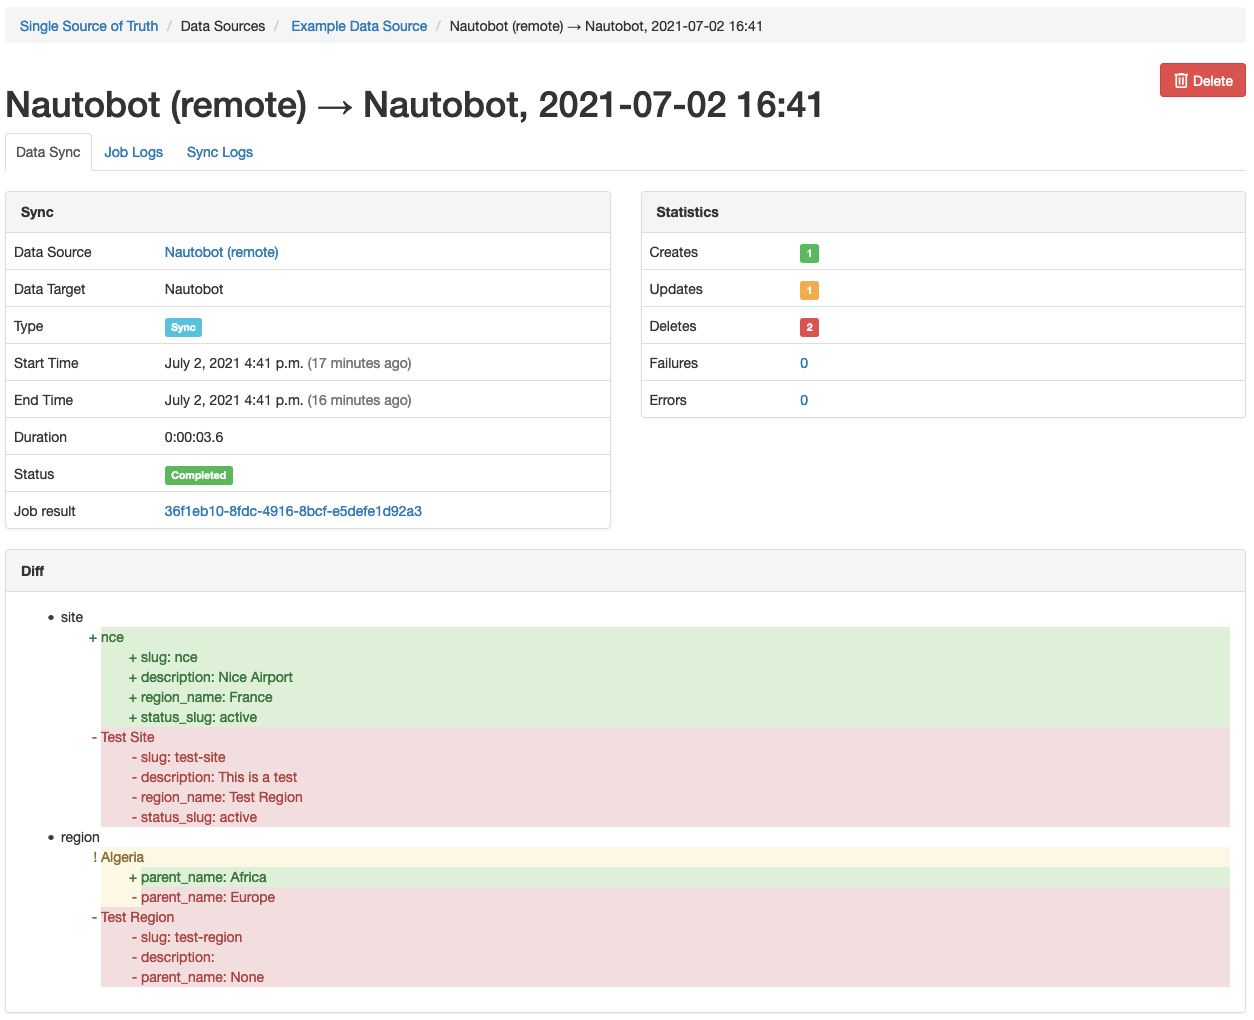
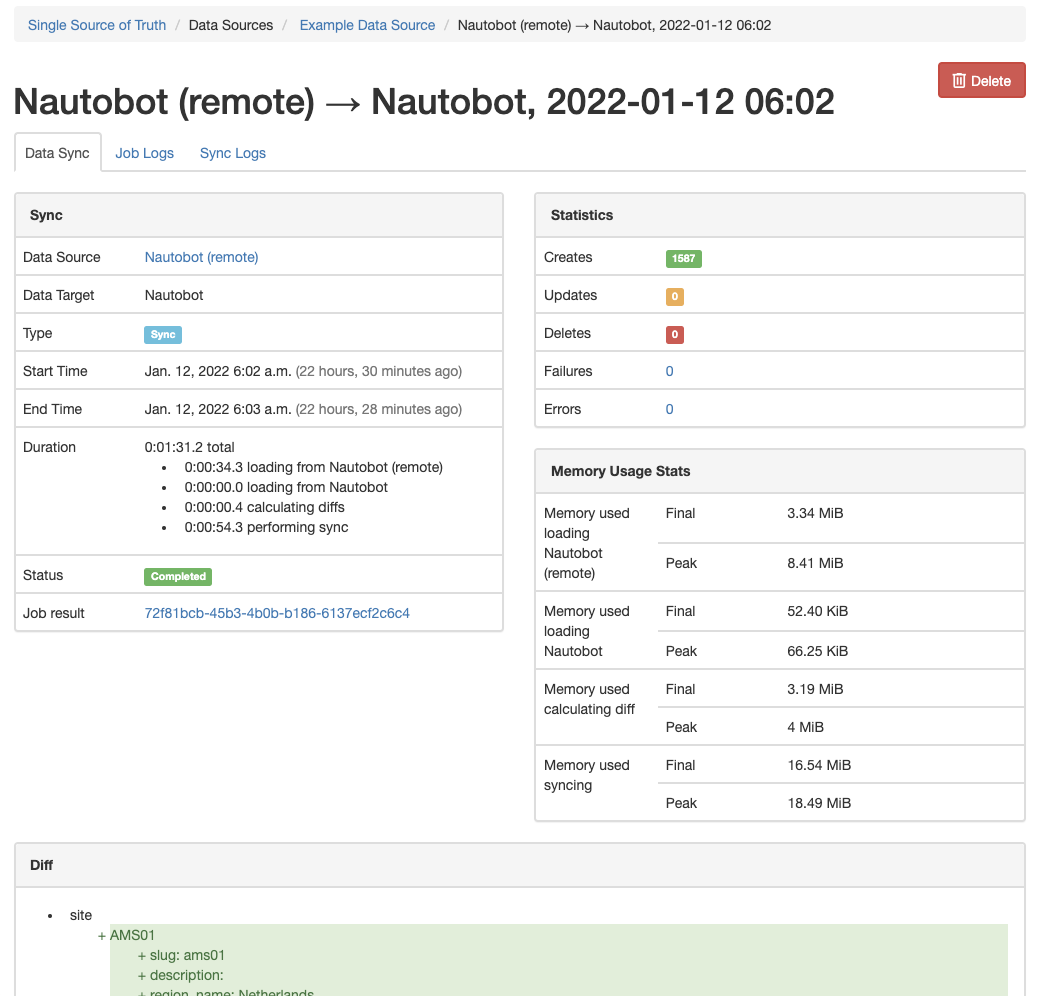
Add performance stats in detail view (#21)
* Add performance stats in detail view

* Move time performance to duration section

* Adjust memory usage stats

diff --git a/nautobot_ssot/templates/nautobot_ssot/sync_detail.html b/nautobot_ssot/templates/nautobot_ssot/sync_detail.html
@@ -3,6 +3,8 @@
 {% load plugins %}
 {% load shorter_timedelta %}
 {% load render_diff %}
+{% load humanize_bytes %}
+
 
 {% block content %}
     <style>
@@ -58,7 +60,15 @@
                     </tr>
                     <tr>
                         <td>Duration</td>
-                        <td>{{ object.duration | shorter_timedelta }}</td>
+                        <td>
+                            {{ object.duration | shorter_timedelta }} total
+                            <ul>
+                                <li>{{ object.source_load_time | shorter_timedelta }} loading from {{ object.source }}</li>
+                                <li>{{ object.target_load_time | shorter_timedelta }} loading from {{ object.target }}</li>
+                                <li>{{ object.diff_time | shorter_timedelta }} calculating diffs</li>
+                                <li>{{ object.sync_time | shorter_timedelta }} performing sync</li>
+                            </ul>
+                        </td>
                     </tr>
                     <tr>
                         <td>Status</td>
@@ -120,6 +130,53 @@
                     </tr>
                 </table>
             </div>
+            {% if object.source_load_memory_final %}
+            <div class="panel panel-default">
+                <div class="panel-heading">
+                    <strong>Memory Usage Stats</strong>
+                </div>
+                <table class="table table-hover panel-body attr-table">
+                    <tr>
+                        <td rowspan="2">Memory used loading {{ object.source }}</td>
+                        <td>Final</td>
+                        <td>{{ object.source_load_memory_final | humanize_bytes }}</td>
+                    </tr>
+                    <tr>
+                        <td>Peak</td>
+                        <td>{{ object.source_load_memory_peak | humanize_bytes }}</td>
+                    </tr>
+                    <tr>
+                        <td rowspan="2">Memory used loading {{ object.target }}</td>
+                        <td>Final</td>
+                        <td>{{ object.target_load_memory_final | humanize_bytes }}</td>
+                    </tr>
+                    <tr>
+                        <td>Peak</td>
+                        <td>{{ object.target_load_memory_peak | humanize_bytes }}</td>
+                    </tr>
+                    <tr>
+                        <td rowspan="2">Memory used calculating diff</td>
+                        <td>Final</td>
+                        <td>{{ object.diff_memory_final | humanize_bytes }}</td>
+                    </tr>
+                    <tr>
+                        <td>Peak</td>
+                        <td>{{ object.diff_memory_peak | humanize_bytes }}</td>
+                    </tr>
+                    {% if object.sync_memory_final %}
+                    <tr>
+                        <td rowspan="2">Memory used syncing</td>
+                        <td>Final</td>
+                        <td>{{ object.sync_memory_final | humanize_bytes }}</td>
+                    </tr>
+                    <tr>
+                        <td>Peak</td>
+                        <td>{{ object.sync_memory_peak | humanize_bytes }}</td>
+                    </tr>
+                    {% endif %}
+                </table>
+            </div>
+            {% endif %}
             {% include 'inc/custom_fields_panel.html' %}
             {% include 'inc/relationships_panel.html' %}
             {% plugin_right_page object %}

diff --git a/nautobot_ssot/jobs/base.py b/nautobot_ssot/jobs/base.py
@@ -110,6 +110,18 @@ class DataSyncBaseJob(BaseJob):  # pylint: disable=too-many-instance-attributes
         - self.sync       (Sync instance tracking this job execution)
         - self.job_result (as per Job API)
         """
+
+        def record_memory_trace(step: str):
+            """Helper function to record memory usage and reset tracemalloc stats."""
+            memory_final, memory_peak = tracemalloc.get_traced_memory()
+            setattr(self.sync, f"{step}_memory_final", memory_final)
+            setattr(self.sync, f"{step}_memory_peak", memory_peak)
+            self.sync.save()
+            self.log_info(
+                message=(f"Traced memory for {step} (Final, Peak): {memory_final} bytes, {memory_peak} bytes")
+            )
+            tracemalloc.clear_traces()
+
         if not self.sync:
             return
 
@@ -121,16 +133,20 @@ class DataSyncBaseJob(BaseJob):  # pylint: disable=too-many-instance-attributes
         self.log_info(message="Loading current data from source adapter...")
         self.load_source_adapter()
         load_source_adapter_time = datetime.now()
-        self.sync.load_time_source = load_source_adapter_time - start_time
+        self.sync.source_load_time = load_source_adapter_time - start_time
         self.sync.save()
-        self.log_info(message=f"Source Load Time from {self.source_adapter}: {self.sync.load_time_source}")
+        self.log_info(message=f"Source Load Time from {self.source_adapter}: {self.sync.source_load_time}")
+        if self.kwargs["memory_profiling"]:
+            record_memory_trace("source_load")
 
         self.log_info(message="Loading current data from target adapter...")
         self.load_target_adapter()
         load_target_adapter_time = datetime.now()
-        self.sync.load_time_target = load_target_adapter_time - load_source_adapter_time
+        self.sync.target_load_time = load_target_adapter_time - load_source_adapter_time
         self.sync.save()
-        self.log_info(message=f"Target Load Time from {self.target_adapter}: {self.sync.load_time_target}")
+        self.log_info(message=f"Target Load Time from {self.target_adapter}: {self.sync.target_load_time}")
+        if self.kwargs["memory_profiling"]:
+            record_memory_trace("target_load")
 
         self.log_info(message="Calculating diffs...")
         self.calculate_diff()
@@ -138,6 +154,8 @@ class DataSyncBaseJob(BaseJob):  # pylint: disable=too-many-instance-attributes
         self.sync.diff_time = calculate_diff_time - load_target_adapter_time
         self.sync.save()
         self.log_info(message=f"Diff Calculation Time: {self.sync.diff_time}")
+        if self.kwargs["memory_profiling"]:
+            record_memory_trace("diff")
 
         if self.kwargs["dry_run"]:
             self.log_info("As `dry_run` is set, skipping the actual data sync.")
@@ -149,17 +167,8 @@ class DataSyncBaseJob(BaseJob):  # pylint: disable=too-many-instance-attributes
             self.sync.save()
             self.log_info(message="Sync complete")
             self.log_info(message=f"Sync Time: {self.sync.sync_time}")
-
-        if self.kwargs["memory_profiling"]:
-            self.sync.memory_size, self.sync.memory_peak = tracemalloc.get_traced_memory()
-            self.sync.memory_usage = tracemalloc.get_tracemalloc_memory()
-            self.sync.save()
-            self.log_info(
-                message=(
-                    f"Traced Memory Blocks (Current, Peak): {self.sync.memory_size}, {self.sync.memory_peak}\n",
-                    f"Memory Usage: {self.sync.memory_usage} bytes",
-                )
-            )
+            if self.kwargs["memory_profiling"]:
+                record_memory_trace("sync")
 
     def lookup_object(self, model_name, unique_id):  # pylint: disable=no-self-use,unused-argument
         """Look up the Nautobot record, if any, identified by the args.

diff --git a/nautobot_ssot/migrations/0002_performance_metrics.py b/nautobot_ssot/migrations/0002_performance_metrics.py
@@ -1,4 +1,4 @@
-# Generated by Django 3.1.13 on 2021-12-13 14:47
+# Generated by Django 3.1.13 on 2022-01-12 05:11
 
 from django.db import migrations, models
 
@@ -12,37 +12,62 @@ class Migration(migrations.Migration):
     operations = [
         migrations.AddField(
             model_name="sync",
+            name="diff_memory_final",
+            field=models.PositiveBigIntegerField(blank=True, null=True),
+        ),
+        migrations.AddField(
+            model_name="sync",
+            name="diff_memory_peak",
+            field=models.PositiveBigIntegerField(blank=True, null=True),
+        ),
+        migrations.AddField(
+            model_name="sync",
             name="diff_time",
             field=models.DurationField(blank=True, null=True),
         ),
         migrations.AddField(
             model_name="sync",
-            name="load_time_source",
+            name="source_load_memory_final",
+            field=models.PositiveBigIntegerField(blank=True, null=True),
+        ),
+        migrations.AddField(
+            model_name="sync",
+            name="source_load_memory_peak",
+            field=models.PositiveBigIntegerField(blank=True, null=True),
+        ),
+        migrations.AddField(
+            model_name="sync",
+            name="source_load_time",
             field=models.DurationField(blank=True, null=True),
         ),
         migrations.AddField(
             model_name="sync",
-            name="load_time_target",
-            field=models.DurationField(blank=True, null=True),
+            name="sync_memory_final",
+            field=models.PositiveBigIntegerField(blank=True, null=True),
         ),
         migrations.AddField(
             model_name="sync",
-            name="memory_peak",
-            field=models.IntegerField(blank=True, null=True),
-        ),
-        migrations.AddField(
-            model_name="sync",
-            name="memory_size",
-            field=models.IntegerField(blank=True, null=True),
-        ),
-        migrations.AddField(
-            model_name="sync",
-            name="memory_usage",
-            field=models.IntegerField(blank=True, null=True),
+            name="sync_memory_peak",
+            field=models.PositiveBigIntegerField(blank=True, null=True),
         ),
         migrations.AddField(
             model_name="sync",
             name="sync_time",
+            field=models.DurationField(blank=True, null=True),
+        ),
+        migrations.AddField(
+            model_name="sync",
+            name="target_load_memory_final",
+            field=models.PositiveBigIntegerField(blank=True, null=True),
+        ),
+        migrations.AddField(
+            model_name="sync",
+            name="target_load_memory_peak",
+            field=models.PositiveBigIntegerField(blank=True, null=True),
+        ),
+        migrations.AddField(
+            model_name="sync",
+            name="target_load_time",
             field=models.DurationField(blank=True, null=True),
         ),
     ]

diff --git a/nautobot_ssot/models.py b/nautobot_ssot/models.py
@@ -47,13 +47,18 @@ class Sync(BaseModel):
 
     start_time = models.DateTimeField(blank=True, null=True)
     # end_time is represented by the job_result.completed field
-    load_time_source = models.DurationField(blank=True, null=True)
-    load_time_target = models.DurationField(blank=True, null=True)
+    source_load_time = models.DurationField(blank=True, null=True)
+    target_load_time = models.DurationField(blank=True, null=True)
     diff_time = models.DurationField(blank=True, null=True)
     sync_time = models.DurationField(blank=True, null=True)
-    memory_usage = models.IntegerField(blank=True, null=True)
-    memory_size = models.IntegerField(blank=True, null=True)
-    memory_peak = models.IntegerField(blank=True, null=True)
+    source_load_memory_final = models.PositiveBigIntegerField(blank=True, null=True)
+    source_load_memory_peak = models.PositiveBigIntegerField(blank=True, null=True)
+    target_load_memory_final = models.PositiveBigIntegerField(blank=True, null=True)
+    target_load_memory_peak = models.PositiveBigIntegerField(blank=True, null=True)
+    diff_memory_final = models.PositiveBigIntegerField(blank=True, null=True)
+    diff_memory_peak = models.PositiveBigIntegerField(blank=True, null=True)
+    sync_memory_final = models.PositiveBigIntegerField(blank=True, null=True)
+    sync_memory_peak = models.PositiveBigIntegerField(blank=True, null=True)
 
     dry_run = models.BooleanField(
         default=False, help_text="Report what data would be synced but do not make any changes"

diff --git a/nautobot_ssot/templatetags/humanize_bytes.py b/nautobot_ssot/templatetags/humanize_bytes.py
@@ -1,0 +1,26 @@
+"""Simple template tag to render a shorter representation of a timedelta object."""
+
+from django import template
+
+
+register = template.Library()
+
+
+@register.filter()
+def humanize_bytes(size):
+    """Humanize memory size given in bytes.
+
+    Examples:
+        1 => "1 B"
+        1024 => "1 KiB"
+        1024*1024 => "1 MiB"
+    """
+    suffix = "B"
+    for unit in ["", "Ki", "Mi", "Gi", "Ti", "Pi", "Ei", "Zi"]:
+        if abs(size) < 1024.0:
+            if round(size, 2) % 1 < 0.01:
+                # If there are no relevant decimals "0.00" we skip them
+                return f"{size:3.0f} {unit}{suffix}"
+            return f"{size:3.2f} {unit}{suffix}"
+        size /= 1024.0
+    return f"{size:.1f} Yi{suffix}"

diff --git a/nautobot_ssot/tests/test_jobs.py b/nautobot_ssot/tests/test_jobs.py
@@ -80,8 +80,8 @@ class BaseJobTestCase(TestCase):
         """Test the run() method."""
         self.job.run(data={"dry_run": True, "memory_profiling": False}, commit=True)
         self.assertIsNotNone(self.job.sync)
-        self.assertIsNotNone(self.job.sync.load_time_source)
-        self.assertIsNotNone(self.job.sync.load_time_target)
+        self.assertIsNotNone(self.job.sync.source_load_time)
+        self.assertIsNotNone(self.job.sync.target_load_time)
         self.assertIsNotNone(self.job.sync.diff_time)
         self.assertIsNone(self.job.sync.sync_time)
         self.assertEqual(self.job.sync.source, self.job.data_source)

diff --git a/docs/developing_jobs.md b/docs/developing_jobs.md
@@ -8,35 +8,55 @@ In brief, the following general steps can be followed:
 
 1. Define one or more `DiffSyncModel` data model class(es) representing the common data record(s) to be synchronized between the two systems.
 
-    * Define your models based on the data you want to sync. For example, if you are syncing specific attributes (e.g. tags) of a device, but not the devices themselves, your parent model
-    should be the tags. This approach prevents unnecessary `create`, `update`, and `delete` calls for models that are not sync'd.
-    * For each model class, implement the `create`, `update`, and `delete` DiffSyncModel APIs for writing data to the Data Target system.
+   - Define your models based on the data you want to sync. For example, if you are syncing specific attributes (e.g. tags) of a device, but not the devices themselves, your parent model
+     should be the tags. This approach prevents unnecessary `create`, `update`, and `delete` calls for models that are not sync'd.
+   - For each model class, implement the `create`, `update`, and `delete` DiffSyncModel APIs for writing data to the Data Target system.
 
 2. Define a `DiffSync` adapter class for loading initial data from Nautobot and constructing instances of each `DiffSyncModel` class to represent that data.
 3. Define a `DiffSync` adapter class for loading initial data from the Data Source or Data Target system and constructing instances of the `DiffSyncModel` classes to represent that data.
-4. Develop a Job class, derived from either the `DataSource` or `DataTarget` classes provided by this plugin, and implement its `sync_data` API function to make use of the DiffSync adapters and data models defined previously. Typically this will look something like:
 
-        def sync_data(self):
-            """Sync data from Data Source to Nautobot."""
-            self.log_info(message="Loading current data from Data Source...")
-            diffsync1 = DataSourceDiffSync(job=self, sync=self.sync)
-            diffsync1.load()
+4. Develop a Job class, derived from either the `DataSource` or `DataTarget` classes provided by this plugin, and implement the adapters to populate the `self.source_adapter` and `self.target_adapter` that are used by the built-in implementation of `sync_data`. This `sync_data` method is an opinionated way of running the process including some performance data, more in [next section](#analyze-job-performance), but you could overwrite it completely or any of the key hooks that it calls:
 
-            self.log_info(message="Loading current data from Nautobot...")
-            diffsync2 = NautobotDiffSync(job=self, sync=self.sync)
-            diffsync2.load()
+   - `self.load_source_adapter`: This is mandatory to be implemented. As an example:
 
-            diffsync_flags = DiffSyncFlags.CONTINUE_ON_FAILURE
+     ```python
+     def load_source_adapter(self):
+         """Method to instantiate and load the SOURCE adapter into `self.source_adapter`."""
+         self.source_adapter = NautobotRemote(url=self.kwargs["source_url"], token=self.kwargs["source_token"], job=self)
+         self.source_adapter.load()
+     ```
 
-            self.log_info(message="Calculating diffs...")
-            diff = diffsync1.diff_to(diffsync_1, flags=diffsync_flags)
-            self.sync.diff = diff.dict()
-            self.sync.save()
+   - `self.load_target_adapter`: This is mandatory to be implemented. As an example:
 
-            if not self.kwargs["dry_run"]:
-                self.log_info(message="Syncing from Data Source to Nautobot...")
-                diffsync1.sync_to(diffsync2, flags=diffsync_flags)
-                self.log_info(message="Sync complete")
+     ```python
+     def load_target_adapter(self):
+        """Method to instantiate and load the TARGET adapter into `self.target_adapter`."""
+        self.target_adapter = NautobotLocal(job=self)
+        self.target_adapter.load()
+     ```
+
+   - `self.calculate_diff`: This method is implemented by default, using the output from load_adapter methods.
+
+   - `self.execute_sync`: This method is implemented by default, using the output from load_adapter methods. Only executed if it's not a `dry-run` execution.
 
 5. Optionally, on your Job class, also implement the `lookup_object`, `data_mappings`, and/or `config_information` APIs (to provide more information to the end user about the details of this Job), as well as the various metadata properties on your Job's `Meta` inner class. Refer to the example Jobs provided in this plugin for examples and further details.
 6. Install your Job via any of the supported Nautobot methods (installation into the `JOBS_ROOT` directory, inclusion in a Git repository, or packaging as part of a plugin) and it should automatically become available!
+
+## Analyze Job performance
+
+The built-in implementation of `sync_data` is composed by 4 steps:
+
+- Loading data from source adapter
+- Loading data from target adapter
+- Calculating diff
+- Executing synchronization (if not `dry-run`)
+
+For each one of these 4 steps we can capture data for performance analysis:
+
+- Time spent: available in the "Data Sync" detail view under Duration section
+- Memory used at the end of the step execution: available in the "Data Sync" detail view under Memory Usage Stats section
+- Peak Memory used during the step execution: available in the "Data Sync" detail view under Memory Usage Stats section
+
+> Memory performance stats are optional, and you must enable them per Job execution with the related checkbox.
+
+This data could give you some insights about where most of the time is spent and how efficient in memory your process is (if there is a big difference between the peak and the final numbers is a hint of something not going well). Understanding it, you could focus on the step that needs more attention.
